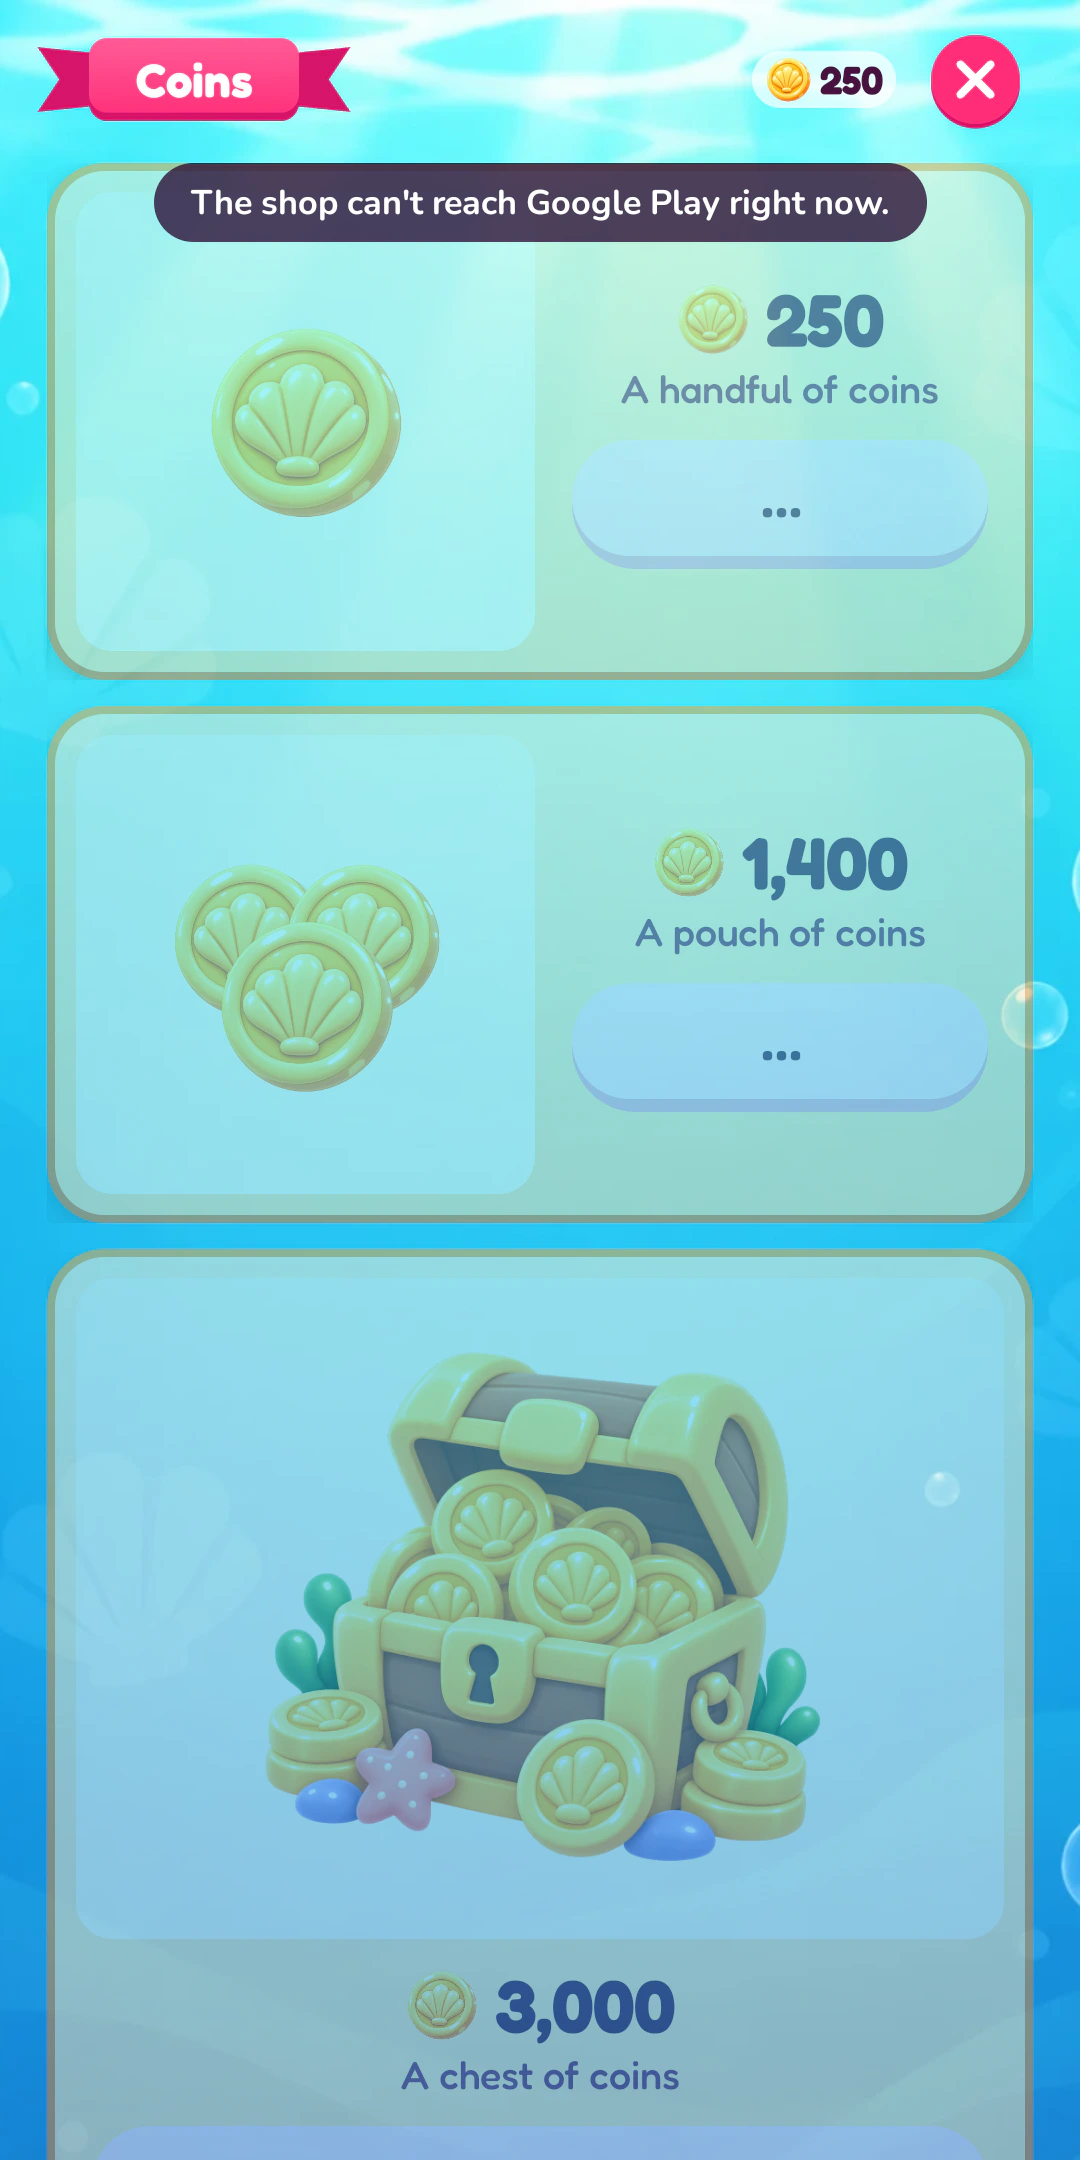
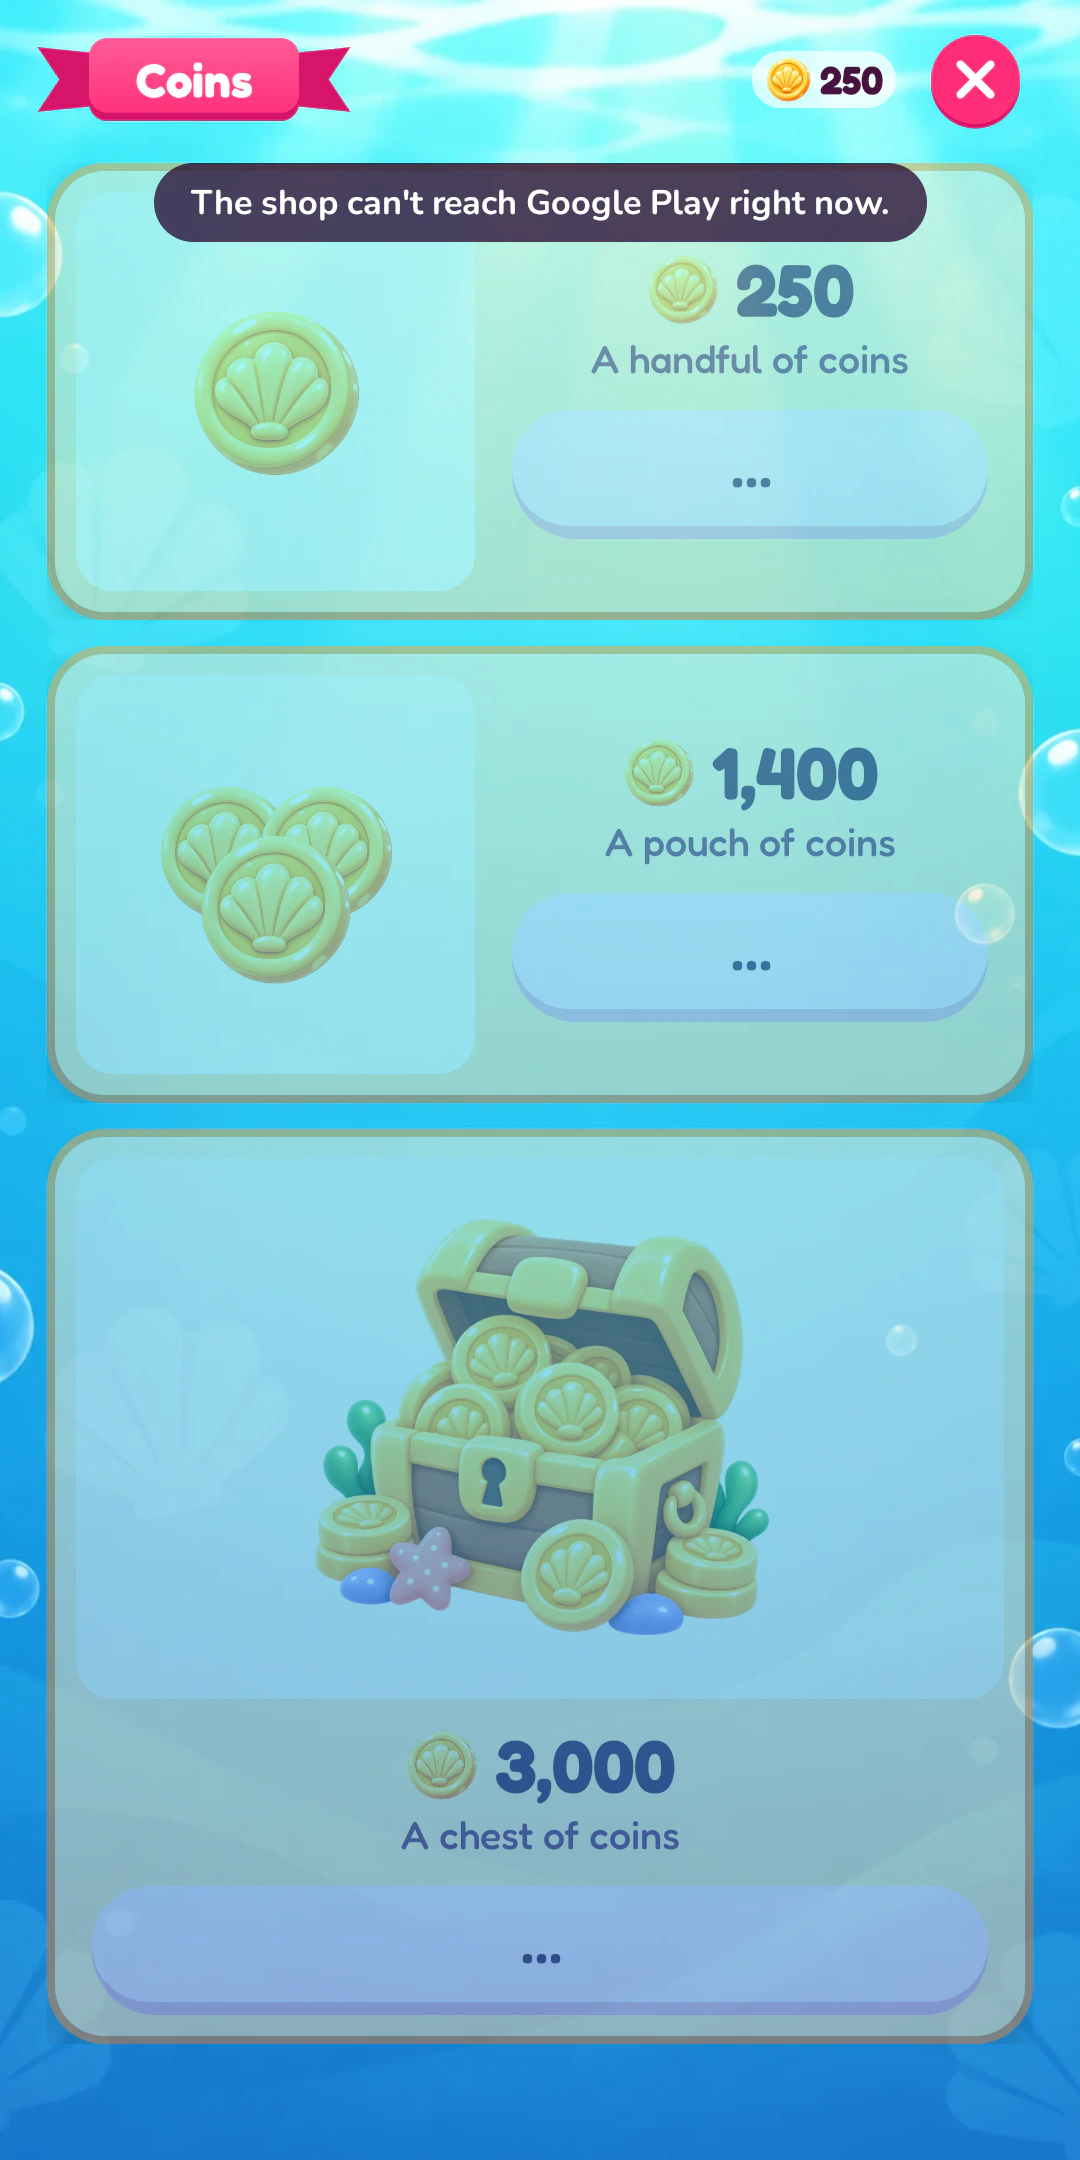
fix(blog): whole game screens, and no purple band at the end
The screens were cropped: the emulator's screen is 1080 by 2400 and the
phone frame's is 1:2, so 240 pixels came off the bottom (the chest's
button among them). They are retaken with the emulator set to 1080 by
2160, so the game lays itself out to the frame and nothing is cut. The
blog's pages end with their links on paper, under a hairline at the end
of the text, instead of the lavender band.

diff --git a/src/app/site.css b/src/app/site.css
@@ -787,6 +787,28 @@
 .lf-p-text a:hover { text-decoration-thickness: 2px; }
 .lf-p-text code { font-size: 0.92em; }
 
+/* The way on, at the end of the text on paper: a hairline, then the links in the display face. */
+.lf-p-end {
+  display: flex;
+  flex-wrap: wrap;
+  gap: 4px 36px;
+  max-width: 68ch;
+  margin-top: clamp(48px, 6vw, 72px);
+  padding-top: 18px;
+  border-top: 1px solid color-mix(in oklab, var(--ink) 22%, transparent);
+}
+.lf-p-end a {
+  padding-block: 6px;
+  font-family: var(--font-f-display), serif;
+  font-size: clamp(1.25rem, 1.8vw, 1.5rem);
+  text-decoration: underline;
+  text-decoration-thickness: 1px;
+  text-underline-offset: 6px;
+  transition: text-underline-offset 220ms var(--ease);
+}
+.lf-p-end a:hover { text-underline-offset: 9px; }
+.lf-bi .lf-p-end { max-width: none; }
+
 /* The panel beside the text, and the phone in it, sized so phone and caption fit the window. */
 .lf-p-stage { display: none; }
 .lf-p-stage-in { --w: min(300px, 21vw, calc((100svh - 190px) / 1.867)); display: grid; justify-items: start; gap: 18px; width: var(--w); }

diff --git a/src/app/blog/[slug]/page.tsx b/src/app/blog/[slug]/page.tsx
@@ -108,6 +108,12 @@ export default async function ArticlePage({ params }: { params: Promise<{ slug: 
               </section>
             ))}
           </article>
+
+          <nav className="lf-p-end" aria-label="More">
+            <Link href="/blog">All articles</Link>
+            <Link href={a.project.href}>The {a.project.name} case study</Link>
+            <a href={`mailto:${person.email}`}>Email me</a>
+          </nav>
         </div>
 
         {screens.length > 0 && (
@@ -124,12 +130,6 @@ export default async function ArticlePage({ params }: { params: Promise<{ slug: 
           </aside>
         )}
       </main>
-
-      <nav className="lf-cs-end" aria-label="More">
-        <Link href="/blog">All articles</Link>
-        <Link href={a.project.href}>The {a.project.name} case study</Link>
-        <a href={`mailto:${person.email}`}>Email me</a>
-      </nav>
     </div>
   );
 }

diff --git a/src/app/blog/page.tsx b/src/app/blog/page.tsx
@@ -70,15 +70,15 @@ export default function BlogPage() {
               </li>
             ))}
           </ol>
-        </section>
 
-        <nav className="lf-cs-end" aria-label="More">
-          <Link href="/#work">See the work</Link>
-          <a href={`mailto:${person.email}`}>Email me</a>
-          <a href={person.links.linkedin} target="_blank" rel="noreferrer">
-            Talk to me on LinkedIn
-          </a>
-        </nav>
+          <nav className="lf-p-end" aria-label="More">
+            <Link href="/#work">See the work</Link>
+            <a href={`mailto:${person.email}`}>Email me</a>
+            <a href={person.links.linkedin} target="_blank" rel="noreferrer">
+              Talk to me on LinkedIn
+            </a>
+          </nav>
+        </section>
       </main>
     </div>
   );
